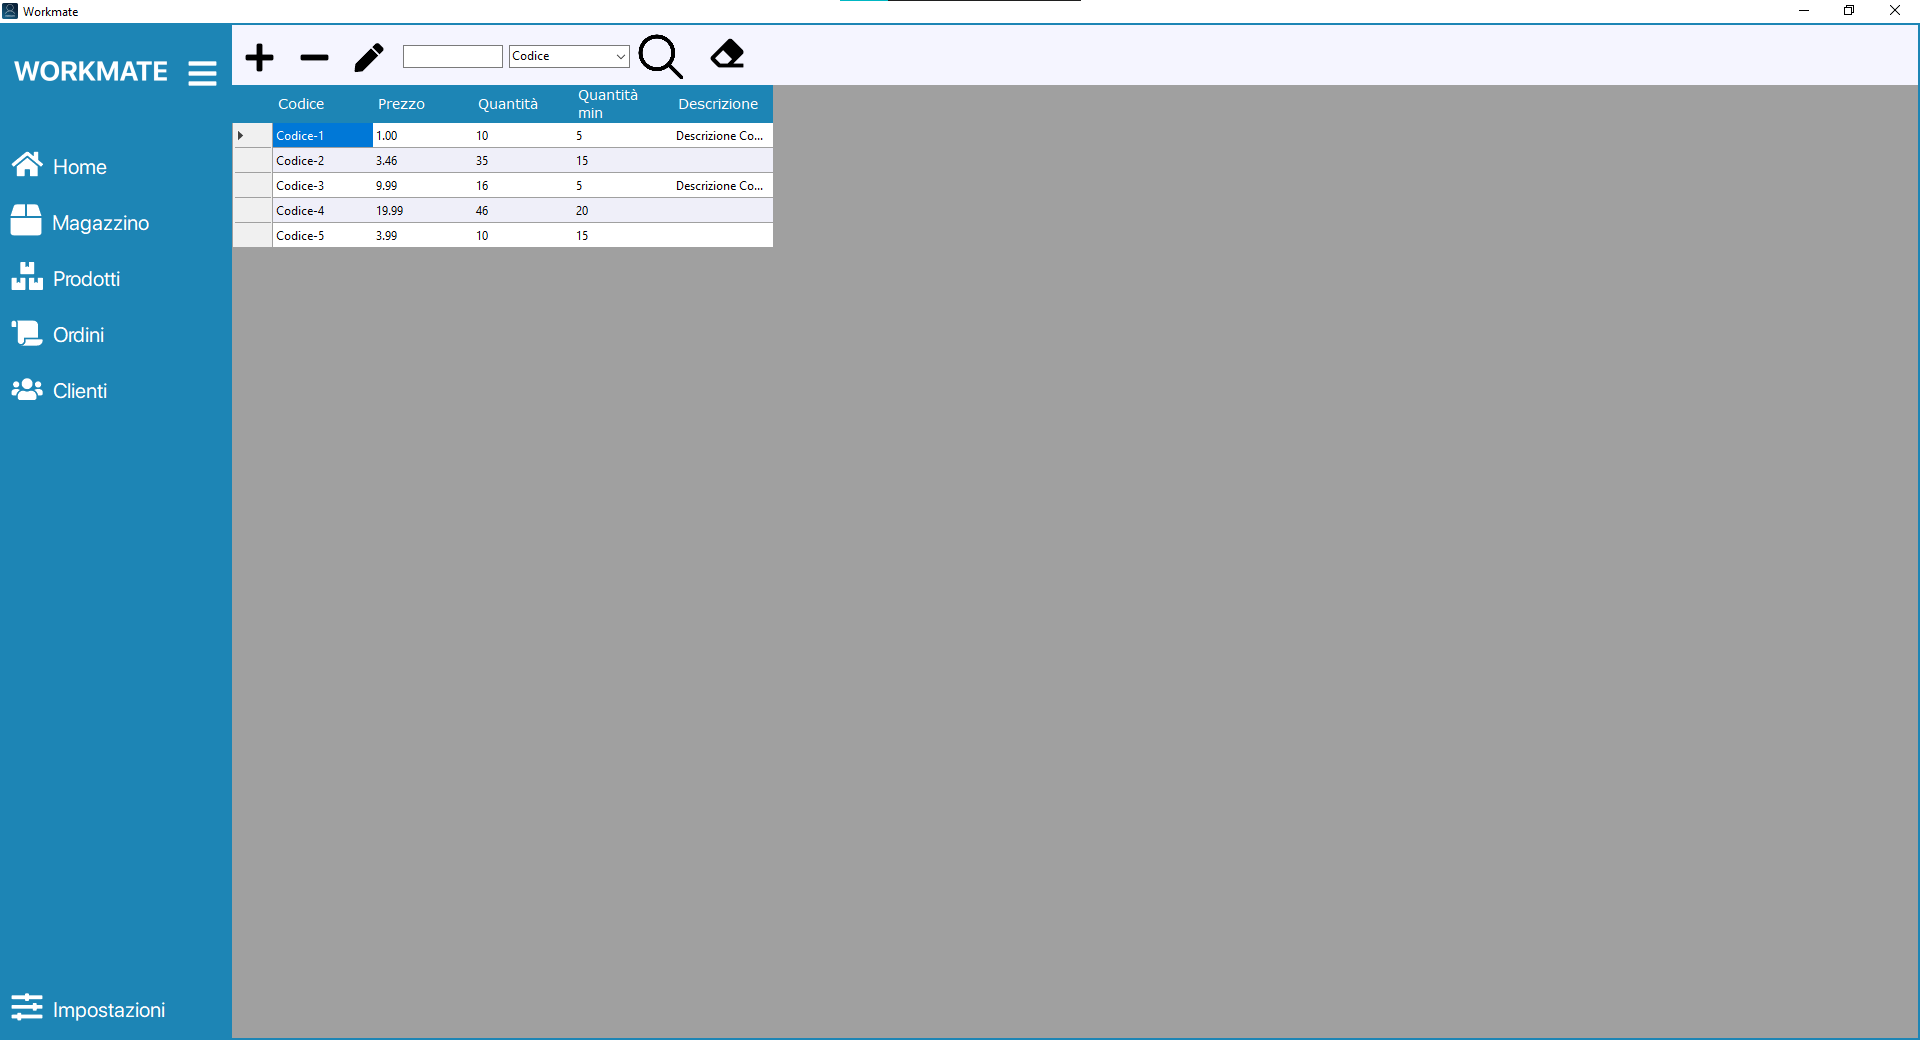
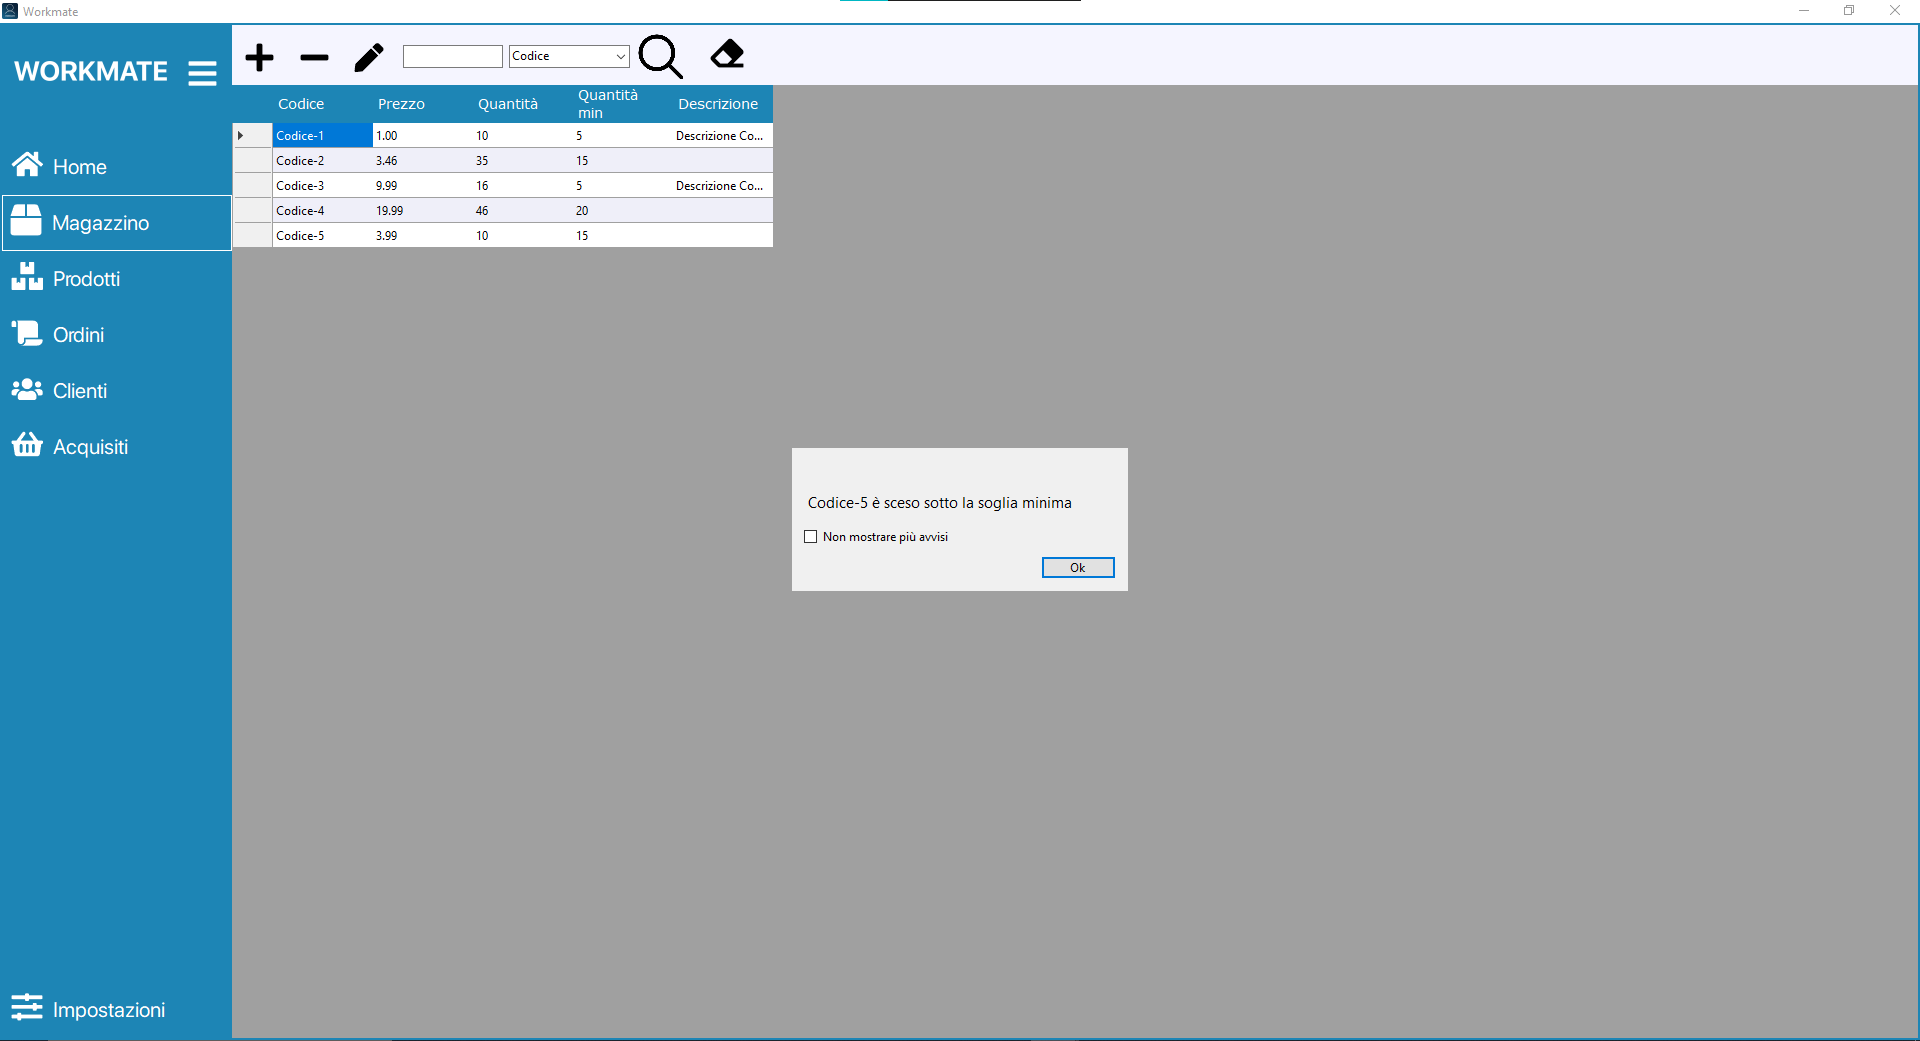
🖼 Update images

diff --git a/en/index.html b/en/index.html
@@ -133,11 +133,11 @@
                             </div>
                         </div>
                     </a></div>
-                <div class="col-sm-6 col-lg-4"><a class="portfolio-box" href="../assets/img/fullsize/impostazioni.png"><img class="img-fluid" src="../assets/img/fullsize/impostazioni.png">
+                <div class="col-sm-6 col-lg-4"><a class="portfolio-box" href="../assets/img/fullsize/acquisti.png"><img class="img-fluid" src="../assets/img/fullsize/acquisti.png">
                         <div class="portfolio-box-caption">
                             <div class="portfolio-box-caption-content">
                                 <div class="project-category text-faded"><span>preview</span></div>
-                                <div class="project-name"><span>Settings</span></div>
+                                <div class="project-name"><span>Shopping</span></div>
                             </div>
                         </div>
                     </a></div>

diff --git a/index.html b/index.html
@@ -133,11 +133,11 @@
                             </div>
                         </div>
                     </a></div>
-                <div class="col-sm-6 col-lg-4"><a class="portfolio-box" href="assets/img/fullsize/impostazioni.png"><img class="img-fluid" src="assets/img/fullsize/impostazioni.png">
+                <div class="col-sm-6 col-lg-4"><a class="portfolio-box" href="assets/img/fullsize/acquisti.png"><img class="img-fluid" src="assets/img/fullsize/acquisti.png">
                         <div class="portfolio-box-caption">
                             <div class="portfolio-box-caption-content">
                                 <div class="project-category text-faded"><span>preview</span></div>
-                                <div class="project-name"><span>Impostazioni</span></div>
+                                <div class="project-name"><span>Acquisti</span></div>
                             </div>
                         </div>
                     </a></div>
